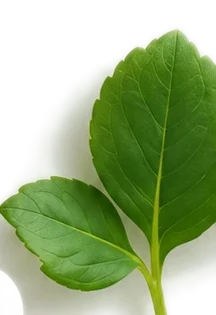
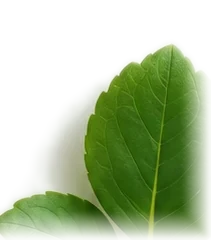
Gør forside-collagen tættere, fjern demo-knap og prikbaggrund
Forsiden virkede fladt beskåret: frugt-collagen var kun 5 enkelte
billeder i hjørnerne, og en overflow:hidden-wrapper (kun tiltænkt til
at klippe kameraets afrundede hjørner) klippede collagens
kant-bløder-positionering usynligt i den rigtige app. Retter begge:
overflow er nu kun "hidden" når kameraet er aktivt, og collagen bruger
nu de samme 5 fotos i ni positioner (varieret størrelse/rotation) så
den fylder hele forsiden i stedet for kun hjørnerne. "Prøv en demo"-
knappen under scan-knappen er fjernet (App-guiden nås stadig via
"App-guide"-knappen i bunden af forsiden). Forsidens egen baggrund er
sat til en flad --paper-farve så prikgitter-mønsteret ikke længere ses
her (uændret på resten af appens skærme).

Basilikum-bladets crop havde et synligt rektangulært kant-artefakt fra
utilstrækkelig baggrundsmargin ved den oprindelige udklipning — genskåret
med mere margin og en tvungen kant-udtoning på de to sider hvor
kildefotoet stadig ikke gav nok baggrund (blåbær-glød ovenfor,
demo-knap-pillen nedenfor i det oprindelige referencebillede).

Claude-Session: https://claude.ai/code/session_01NHMCALo2WveEHmVfKZNavn

diff --git a/src/ScannerScreen.jsx b/src/ScannerScreen.jsx
@@ -219,7 +219,7 @@ export default function ScannerScreen({
   return (
     <>
         {screen === SCREENS.HOME && (
-          <div className="screen fade-in" id="main-content" style={{ display:"flex", flexDirection:"column", minHeight:"calc(100vh - 130px)" }}>
+          <div className="screen fade-in" id="main-content" style={{ display:"flex", flexDirection:"column", minHeight:"calc(100vh - 130px)", background:"var(--paper)" }}>
 
             {/* Guide modal — vises ved klik på "App-guide" */}
             {showGuide && (
@@ -238,7 +238,11 @@ export default function ScannerScreen({
             {!!userId && <div style={{
               background: cameraActive ? "var(--surface)" : "transparent",
               borderRadius:20, marginBottom:10,
-              overflow:"hidden", position:"relative", border: cameraActive ? "1px solid var(--border2)" : "none",
+              // "hidden" er kun nødvendigt for at klippe kameraets afrundede hjørner
+              // når det er aktivt — i hero-tilstanden skal collage-billederne kunne
+              // bløde ud over kanten, ellers klipper denne wrapper dem usynligt
+              // (fandt dette ved at sammenligne den rigtige app mod mimic-previewet).
+              overflow: cameraActive ? "hidden" : "visible", position:"relative", border: cameraActive ? "1px solid var(--border2)" : "none",
               boxShadow: cameraActive ? "var(--sh2)" : "none",
             }}>
               {/* Kamera container — altid i DOM men skjult når ikke aktiv */}
@@ -324,18 +328,30 @@ export default function ScannerScreen({
               {/* Forside-hero når kamera ikke er aktivt: overskrift + stor
                   scan-knap med frugt-collage — matcher det aftalte design. */}
               {!cameraActive && (
-              <div style={{ position:"relative", padding:"14px 0 8px" }}>
-                {/* Frugt-collage — rent dekorativt, ingen semantisk betydning */}
-                <img src={leafMint} alt="" aria-hidden="true" draggable="false"
-                  style={{ position:"absolute", top:-8, left:-18, width:118, pointerEvents:"none", userSelect:"none" }} />
-                <img src={blueberriesPair} alt="" aria-hidden="true" draggable="false"
-                  style={{ position:"absolute", top:12, right:-38, width:175, pointerEvents:"none", userSelect:"none" }} />
-                <img src={blueberrySingle} alt="" aria-hidden="true" draggable="false"
-                  style={{ position:"absolute", top:52, left:128, width:70, pointerEvents:"none", userSelect:"none" }} />
-                <img src={strawberryImg} alt="" aria-hidden="true" draggable="false"
-                  style={{ position:"absolute", bottom:48, left:-30, width:113, pointerEvents:"none", userSelect:"none" }} />
-                <img src={leafBasil} alt="" aria-hidden="true" draggable="false"
-                  style={{ position:"absolute", bottom:24, right:-34, width:130, pointerEvents:"none", userSelect:"none" }} />
+              <div style={{ position:"relative", padding:"14px 0 24px" }}>
+                {/* Frugt-collage — rent dekorativt, ingen semantisk betydning.
+                    Genbruger de 5 fotos i flere størrelser/rotationer/positioner
+                    så collagen fylder hele forsiden i stedet for kun hjørnerne
+                    (sandboxen kan ikke hente andre/nye billeder eksternt, se
+                    CLAUDE.md afsnit 5, 24. sept.-opfølgning). Jordbær-billedet
+                    er kun et delvist udsnit i selve kildefotoet — bruges derfor
+                    udelukkende som ægte kant-bløder, aldrig midt i kompositionen. */}
+                {[
+                  { src: leafMint,        top:-16,  left:-24,  width:104, rotate:-16 },
+                  { src: blueberriesPair, top:-8,   right:-32, width:148, rotate:12 },
+                  { src: blueberrySingle, top:100,  right:14,  width:50,  rotate:26 },
+                  { src: leafBasil,       top:148,  left:-38,  width:116, rotate:-22, flip:true },
+                  { src: blueberrySingle, top:222,  left:26,   width:38,  rotate:-8 },
+                  { src: leafMint,        top:262,  right:-20, width:84,  rotate:30 },
+                  { src: leafBasil,       bottom:104, right:-32, width:102, rotate:16 },
+                  { src: blueberriesPair, bottom:44,  left:-36,  width:126, rotate:-14 },
+                  { src: strawberryImg,   bottom:-14, left:-44,  width:132, rotate:-6 },
+                ].map((it, i) => (
+                  <img key={i} src={it.src} alt="" aria-hidden="true" draggable="false"
+                    style={{ position:"absolute", top:it.top, bottom:it.bottom, left:it.left, right:it.right,
+                      width:it.width, transform:`${it.flip ? "scaleX(-1) " : ""}rotate(${it.rotate}deg)`,
+                      pointerEvents:"none", userSelect:"none" }} />
+                ))}
 
                 <div style={{ position:"relative", zIndex:1, textAlign:"center", padding:"88px 24px 0" }}>
                   <div style={{ fontSize:28, fontWeight:800, color:"var(--ink)", letterSpacing:"-.5px" }}>Scan produkt</div>
@@ -363,19 +379,6 @@ export default function ScannerScreen({
                       <div style={{ fontSize:14.5, fontWeight:800, color:"#fff", letterSpacing:"-.2px" }}>Scan produkt</div>
                     </div>
                   </div>
-                </div>
-
-                {/* Prøv en demo */}
-                <div style={{ position:"relative", zIndex:1, display:"flex", justifyContent:"center", padding:"0 24px 6px" }}>
-                  <button onClick={() => setShowGuide(true)}
-                    style={{ display:"flex", alignItems:"center", justifyContent:"center", gap:8,
-                      width:"100%", maxWidth:280, padding:"14px 20px", borderRadius:100,
-                      background:"var(--surface)", border:"1px solid var(--border)", boxShadow:"var(--sh)",
-                      fontFamily:"var(--f)", fontSize:14.5, fontWeight:700, color:"var(--ink)", cursor:"pointer" }}>
-                    <Icon name="package" size={17} color="var(--green)" />
-                    Prøv en demo
-                    <Icon name="chevronRight" size={15} color="var(--muted2)" />
-                  </button>
                 </div>
               </div>
               )}
